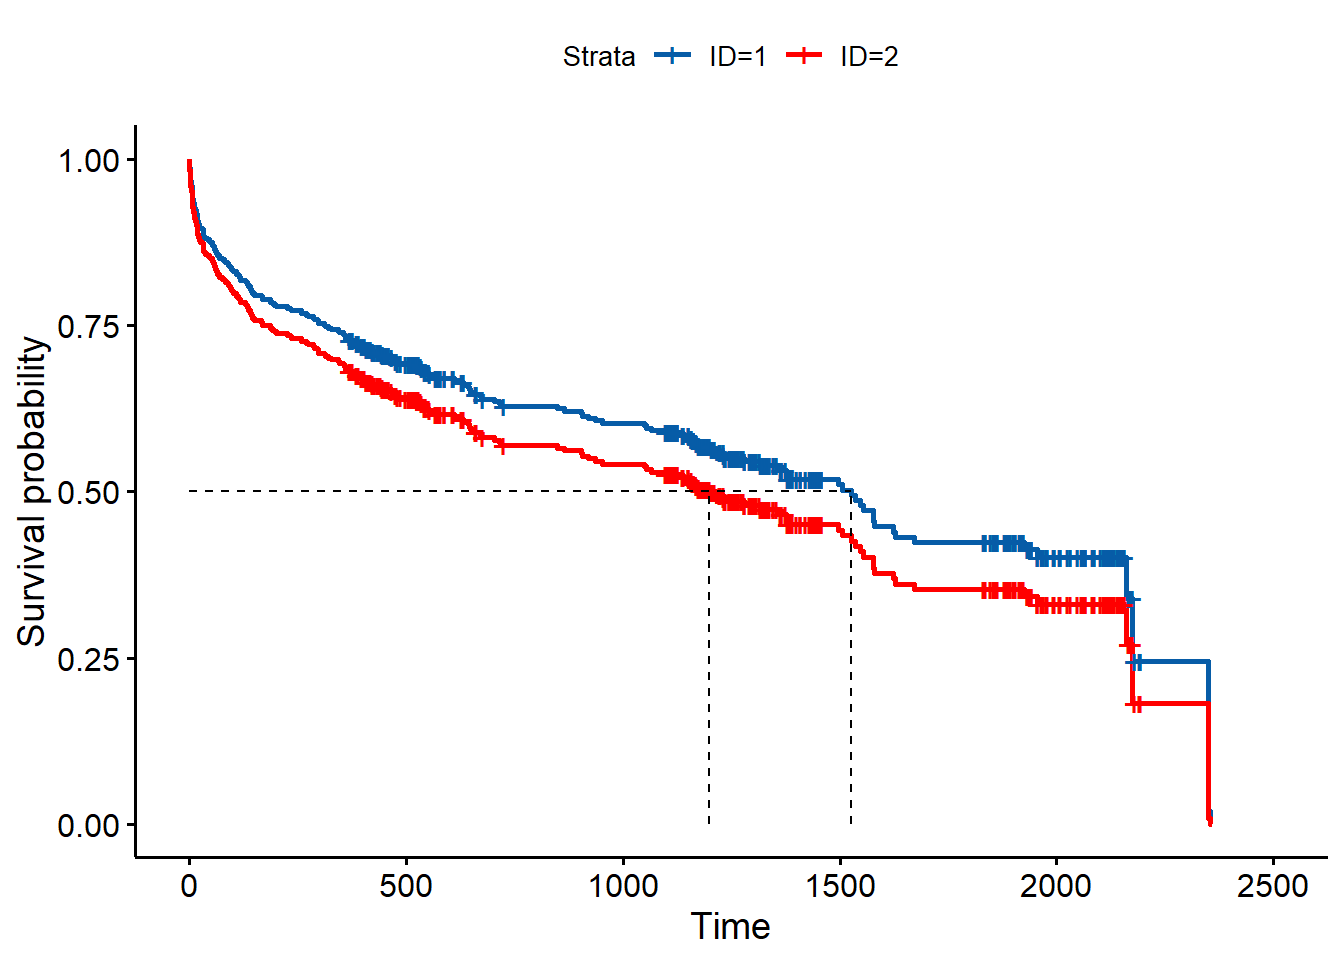
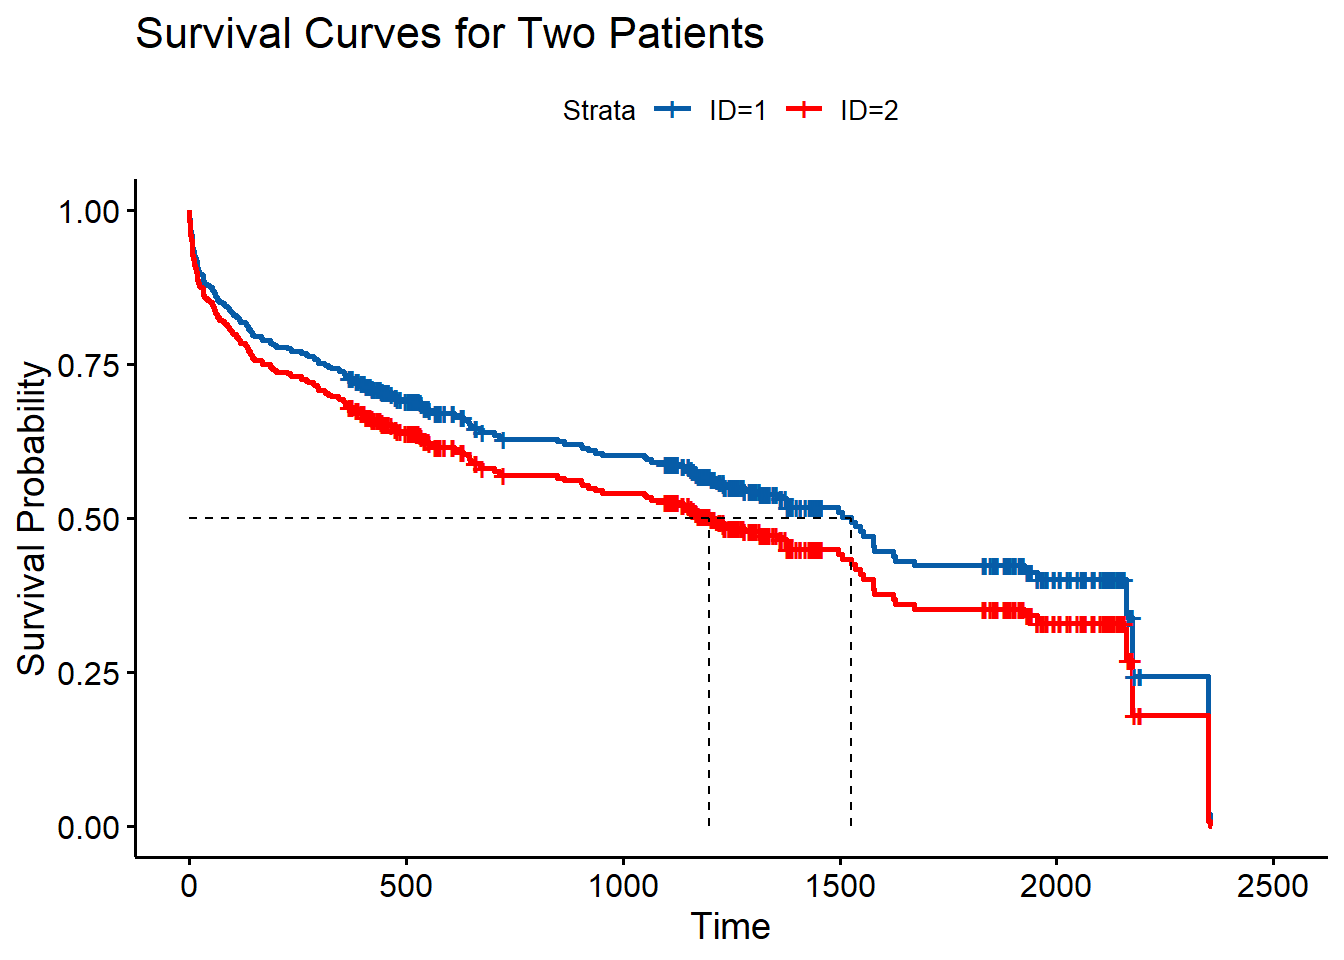
Last Update

diff --git a/survival.html b/survival.html
@@ -808,7 +808,7 @@ new_df</code></pre>
 ## 2  2     2      0  30    1     4</code></pre>
 <pre class="r"><code>newmodel &lt;- survfit(model3, newdata = new_df, data = stroke)
 
-ggsurvplot(newmodel, conf.int = FALSE, palette = c(&quot;#075CA7&quot;, &#39;#ff0000&#39;), surv.median.line = &quot;hv&quot;, legend.labs = c(&quot;ID=1&quot;, &quot;ID=2&quot;))</code></pre>
+ggsurvplot(newmodel, conf.int = FALSE, palette = c(&quot;#075CA7&quot;, &#39;#ff0000&#39;), surv.median.line = &quot;hv&quot;, legend.labs = c(&quot;ID=1&quot;, &quot;ID=2&quot;), ylab = &quot;Survival Probability&quot;, title = &quot;Survival Curves for Two Patients&quot;)</code></pre>
 <p><img src="survival_files/figure-html/predicted_survivals-1.png" width="100%" style="background-color: #000000; padding:1px" /></p>
 <p>𝑟𝑤𝑖𝑠𝑒</p>
 </div>
